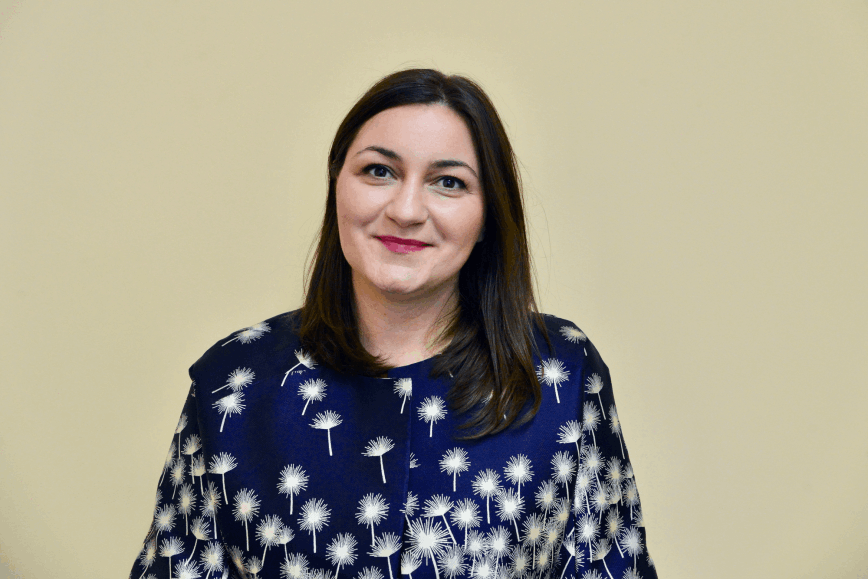
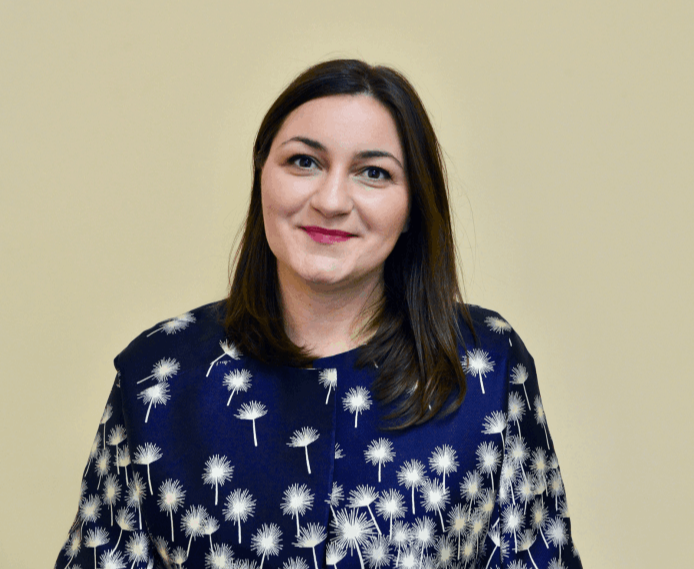
create github pages

Changed region(s): [[0.0605, 0.0896, 0.8473, 1.0], [0.0, 0.9561, 0.0303, 1.0]]

diff --git a/page5.html b/page5.html
@@ -64,7 +64,7 @@
     </nav>
 </section>
 
-<section class="engine"><a href="https://mobirise.info/p">website templates free download</a></section><section class="cid-rlumUfrowX mbr-parallax-background" id="header2-1c">
+<section class="engine"><a href="https://mobirise.info/n">simple web templates</a></section><section class="cid-rlumUfrowX mbr-parallax-background" id="header2-1c">
 
     
 
@@ -89,7 +89,7 @@
     
 
     <div>
-        <div><!-- Filter --><!-- Gallery --><div class="mbr-gallery-row"><div class="mbr-gallery-layout-default"><div><div><div class="mbr-gallery-item mbr-gallery-item--p0" data-video-url="false" data-tags="Awesome"><div href="#lb-gallery3-1h" data-slide-to="0" data-toggle="modal"><img src="assets/images/background10.jpg" alt="" title=""><span class="icon-focus"></span></div></div><div class="mbr-gallery-item mbr-gallery-item--p0" data-video-url="false" data-tags="Responsive"><div href="#lb-gallery3-1h" data-slide-to="1" data-toggle="modal"><img src="assets/images/background2.jpg" alt="" title=""><span class="icon-focus"></span></div></div><div class="mbr-gallery-item mbr-gallery-item--p0" data-video-url="false" data-tags="Creative"><div href="#lb-gallery3-1h" data-slide-to="2" data-toggle="modal"><img src="assets/images/background3.jpg" alt="" title=""><span class="icon-focus"></span></div></div><div class="mbr-gallery-item mbr-gallery-item--p0" data-video-url="false" data-tags="Animated"><div href="#lb-gallery3-1h" data-slide-to="3" data-toggle="modal"><img src="assets/images/background4.jpg" alt="" title=""><span class="icon-focus"></span></div></div><div class="mbr-gallery-item mbr-gallery-item--p0" data-video-url="false" data-tags="Awesome"><div href="#lb-gallery3-1h" data-slide-to="4" data-toggle="modal"><img src="assets/images/background5.jpg" alt="" title=""><span class="icon-focus"></span></div></div><div class="mbr-gallery-item mbr-gallery-item--p0" data-video-url="false" data-tags="Awesome"><div href="#lb-gallery3-1h" data-slide-to="5" data-toggle="modal"><img src="assets/images/background6.jpg" alt="" title=""><span class="icon-focus"></span></div></div><div class="mbr-gallery-item mbr-gallery-item--p0" data-video-url="false" data-tags="Responsive"><div href="#lb-gallery3-1h" data-slide-to="6" data-toggle="modal"><img src="assets/images/background7.jpg" alt="" title=""><span class="icon-focus"></span></div></div><div class="mbr-gallery-item mbr-gallery-item--p0" data-video-url="false" data-tags="Animated"><div href="#lb-gallery3-1h" data-slide-to="7" data-toggle="modal"><img src="assets/images/background8.jpg" alt="" title=""><span class="icon-focus"></span></div></div></div></div><div class="clearfix"></div></div></div><!-- Lightbox --><div data-app-prevent-settings="" class="mbr-slider modal fade carousel slide" tabindex="-1" data-keyboard="true" data-interval="false" id="lb-gallery3-1h"><div class="modal-dialog"><div class="modal-content"><div class="modal-body"><div class="carousel-inner"><div class="carousel-item active"><img src="assets/images/background10.jpg" alt="" title=""></div><div class="carousel-item"><img src="assets/images/background2.jpg" alt="" title=""></div><div class="carousel-item"><img src="assets/images/background3.jpg" alt="" title=""></div><div class="carousel-item"><img src="assets/images/background4.jpg" alt="" title=""></div><div class="carousel-item"><img src="assets/images/background5.jpg" alt="" title=""></div><div class="carousel-item"><img src="assets/images/background6.jpg" alt="" title=""></div><div class="carousel-item"><img src="assets/images/background7.jpg" alt="" title=""></div><div class="carousel-item"><img src="assets/images/background8.jpg" alt="" title=""></div></div><a class="carousel-control carousel-control-prev" role="button" data-slide="prev" href="#lb-gallery3-1h"><span class="mbri-left mbr-iconfont" aria-hidden="true"></span><span class="sr-only">Previous</span></a><a class="carousel-control carousel-control-next" role="button" data-slide="next" href="#lb-gallery3-1h"><span class="mbri-right mbr-iconfont" aria-hidden="true"></span><span class="sr-only">Next</span></a><a class="close" href="#" role="button" data-dismiss="modal"><span class="sr-only">Close</span></a></div></div></div></div></div>
+        <div><!-- Filter --><!-- Gallery --><div class="mbr-gallery-row"><div class="mbr-gallery-layout-default"><div><div><div class="mbr-gallery-item mbr-gallery-item--p0" data-video-url="false" data-tags="Awesome"><div href="#lb-gallery3-1h" data-slide-to="0" data-toggle="modal"><img src="assets/images/background12.jpg" alt="" title=""><span class="icon-focus"></span></div></div><div class="mbr-gallery-item mbr-gallery-item--p0" data-video-url="false" data-tags="Responsive"><div href="#lb-gallery3-1h" data-slide-to="1" data-toggle="modal"><img src="assets/images/background2.jpg" alt="" title=""><span class="icon-focus"></span></div></div><div class="mbr-gallery-item mbr-gallery-item--p0" data-video-url="false" data-tags="Creative"><div href="#lb-gallery3-1h" data-slide-to="2" data-toggle="modal"><img src="assets/images/background3.jpg" alt="" title=""><span class="icon-focus"></span></div></div><div class="mbr-gallery-item mbr-gallery-item--p0" data-video-url="false" data-tags="Animated"><div href="#lb-gallery3-1h" data-slide-to="3" data-toggle="modal"><img src="assets/images/background4.jpg" alt="" title=""><span class="icon-focus"></span></div></div><div class="mbr-gallery-item mbr-gallery-item--p0" data-video-url="false" data-tags="Awesome"><div href="#lb-gallery3-1h" data-slide-to="4" data-toggle="modal"><img src="assets/images/background5.jpg" alt="" title=""><span class="icon-focus"></span></div></div><div class="mbr-gallery-item mbr-gallery-item--p0" data-video-url="false" data-tags="Awesome"><div href="#lb-gallery3-1h" data-slide-to="5" data-toggle="modal"><img src="assets/images/background6.jpg" alt="" title=""><span class="icon-focus"></span></div></div><div class="mbr-gallery-item mbr-gallery-item--p0" data-video-url="false" data-tags="Responsive"><div href="#lb-gallery3-1h" data-slide-to="6" data-toggle="modal"><img src="assets/images/background7.jpg" alt="" title=""><span class="icon-focus"></span></div></div><div class="mbr-gallery-item mbr-gallery-item--p0" data-video-url="false" data-tags="Animated"><div href="#lb-gallery3-1h" data-slide-to="7" data-toggle="modal"><img src="assets/images/background8.jpg" alt="" title=""><span class="icon-focus"></span></div></div></div></div><div class="clearfix"></div></div></div><!-- Lightbox --><div data-app-prevent-settings="" class="mbr-slider modal fade carousel slide" tabindex="-1" data-keyboard="true" data-interval="false" id="lb-gallery3-1h"><div class="modal-dialog"><div class="modal-content"><div class="modal-body"><div class="carousel-inner"><div class="carousel-item active"><img src="assets/images/background12.jpg" alt="" title=""></div><div class="carousel-item"><img src="assets/images/background2.jpg" alt="" title=""></div><div class="carousel-item"><img src="assets/images/background3.jpg" alt="" title=""></div><div class="carousel-item"><img src="assets/images/background4.jpg" alt="" title=""></div><div class="carousel-item"><img src="assets/images/background5.jpg" alt="" title=""></div><div class="carousel-item"><img src="assets/images/background6.jpg" alt="" title=""></div><div class="carousel-item"><img src="assets/images/background7.jpg" alt="" title=""></div><div class="carousel-item"><img src="assets/images/background8.jpg" alt="" title=""></div></div><a class="carousel-control carousel-control-prev" role="button" data-slide="prev" href="#lb-gallery3-1h"><span class="mbri-left mbr-iconfont" aria-hidden="true"></span><span class="sr-only">Previous</span></a><a class="carousel-control carousel-control-next" role="button" data-slide="next" href="#lb-gallery3-1h"><span class="mbri-right mbr-iconfont" aria-hidden="true"></span><span class="sr-only">Next</span></a><a class="close" href="#" role="button" data-dismiss="modal"><span class="sr-only">Close</span></a></div></div></div></div></div>
     </div>
 
 </section>
@@ -99,7 +99,7 @@
     
 
     <div>
-        <div><!-- Filter --><!-- Gallery --><div class="mbr-gallery-row"><div class="mbr-gallery-layout-default"><div><div><div class="mbr-gallery-item mbr-gallery-item--p0" data-video-url="false" data-tags="Awesome"><div href="#lb-gallery3-1i" data-slide-to="0" data-toggle="modal"><img src="assets/images/background10.jpg" alt="" title=""><span class="icon-focus"></span></div></div><div class="mbr-gallery-item mbr-gallery-item--p0" data-video-url="false" data-tags="Responsive"><div href="#lb-gallery3-1i" data-slide-to="1" data-toggle="modal"><img src="assets/images/background2.jpg" alt="" title=""><span class="icon-focus"></span></div></div><div class="mbr-gallery-item mbr-gallery-item--p0" data-video-url="false" data-tags="Creative"><div href="#lb-gallery3-1i" data-slide-to="2" data-toggle="modal"><img src="assets/images/background3.jpg" alt="" title=""><span class="icon-focus"></span></div></div><div class="mbr-gallery-item mbr-gallery-item--p0" data-video-url="false" data-tags="Animated"><div href="#lb-gallery3-1i" data-slide-to="3" data-toggle="modal"><img src="assets/images/background4.jpg" alt="" title=""><span class="icon-focus"></span></div></div><div class="mbr-gallery-item mbr-gallery-item--p0" data-video-url="false" data-tags="Awesome"><div href="#lb-gallery3-1i" data-slide-to="4" data-toggle="modal"><img src="assets/images/background5.jpg" alt="" title=""><span class="icon-focus"></span></div></div><div class="mbr-gallery-item mbr-gallery-item--p0" data-video-url="false" data-tags="Awesome"><div href="#lb-gallery3-1i" data-slide-to="5" data-toggle="modal"><img src="assets/images/background6.jpg" alt="" title=""><span class="icon-focus"></span></div></div><div class="mbr-gallery-item mbr-gallery-item--p0" data-video-url="false" data-tags="Responsive"><div href="#lb-gallery3-1i" data-slide-to="6" data-toggle="modal"><img src="assets/images/background7.jpg" alt="" title=""><span class="icon-focus"></span></div></div><div class="mbr-gallery-item mbr-gallery-item--p0" data-video-url="false" data-tags="Animated"><div href="#lb-gallery3-1i" data-slide-to="7" data-toggle="modal"><img src="assets/images/background8.jpg" alt="" title=""><span class="icon-focus"></span></div></div></div></div><div class="clearfix"></div></div></div><!-- Lightbox --><div data-app-prevent-settings="" class="mbr-slider modal fade carousel slide" tabindex="-1" data-keyboard="true" data-interval="false" id="lb-gallery3-1i"><div class="modal-dialog"><div class="modal-content"><div class="modal-body"><div class="carousel-inner"><div class="carousel-item active"><img src="assets/images/background10.jpg" alt="" title=""></div><div class="carousel-item"><img src="assets/images/background2.jpg" alt="" title=""></div><div class="carousel-item"><img src="assets/images/background3.jpg" alt="" title=""></div><div class="carousel-item"><img src="assets/images/background4.jpg" alt="" title=""></div><div class="carousel-item"><img src="assets/images/background5.jpg" alt="" title=""></div><div class="carousel-item"><img src="assets/images/background6.jpg" alt="" title=""></div><div class="carousel-item"><img src="assets/images/background7.jpg" alt="" title=""></div><div class="carousel-item"><img src="assets/images/background8.jpg" alt="" title=""></div></div><a class="carousel-control carousel-control-prev" role="button" data-slide="prev" href="#lb-gallery3-1i"><span class="mbri-left mbr-iconfont" aria-hidden="true"></span><span class="sr-only">Previous</span></a><a class="carousel-control carousel-control-next" role="button" data-slide="next" href="#lb-gallery3-1i"><span class="mbri-right mbr-iconfont" aria-hidden="true"></span><span class="sr-only">Next</span></a><a class="close" href="#" role="button" data-dismiss="modal"><span class="sr-only">Close</span></a></div></div></div></div></div>
+        <div><!-- Filter --><!-- Gallery --><div class="mbr-gallery-row"><div class="mbr-gallery-layout-default"><div><div><div class="mbr-gallery-item mbr-gallery-item--p0" data-video-url="false" data-tags="Awesome"><div href="#lb-gallery3-1i" data-slide-to="0" data-toggle="modal"><img src="assets/images/background12.jpg" alt="" title=""><span class="icon-focus"></span></div></div><div class="mbr-gallery-item mbr-gallery-item--p0" data-video-url="false" data-tags="Responsive"><div href="#lb-gallery3-1i" data-slide-to="1" data-toggle="modal"><img src="assets/images/background2.jpg" alt="" title=""><span class="icon-focus"></span></div></div><div class="mbr-gallery-item mbr-gallery-item--p0" data-video-url="false" data-tags="Creative"><div href="#lb-gallery3-1i" data-slide-to="2" data-toggle="modal"><img src="assets/images/background3.jpg" alt="" title=""><span class="icon-focus"></span></div></div><div class="mbr-gallery-item mbr-gallery-item--p0" data-video-url="false" data-tags="Animated"><div href="#lb-gallery3-1i" data-slide-to="3" data-toggle="modal"><img src="assets/images/background4.jpg" alt="" title=""><span class="icon-focus"></span></div></div><div class="mbr-gallery-item mbr-gallery-item--p0" data-video-url="false" data-tags="Awesome"><div href="#lb-gallery3-1i" data-slide-to="4" data-toggle="modal"><img src="assets/images/background5.jpg" alt="" title=""><span class="icon-focus"></span></div></div><div class="mbr-gallery-item mbr-gallery-item--p0" data-video-url="false" data-tags="Awesome"><div href="#lb-gallery3-1i" data-slide-to="5" data-toggle="modal"><img src="assets/images/background6.jpg" alt="" title=""><span class="icon-focus"></span></div></div><div class="mbr-gallery-item mbr-gallery-item--p0" data-video-url="false" data-tags="Responsive"><div href="#lb-gallery3-1i" data-slide-to="6" data-toggle="modal"><img src="assets/images/background7.jpg" alt="" title=""><span class="icon-focus"></span></div></div><div class="mbr-gallery-item mbr-gallery-item--p0" data-video-url="false" data-tags="Animated"><div href="#lb-gallery3-1i" data-slide-to="7" data-toggle="modal"><img src="assets/images/background8.jpg" alt="" title=""><span class="icon-focus"></span></div></div></div></div><div class="clearfix"></div></div></div><!-- Lightbox --><div data-app-prevent-settings="" class="mbr-slider modal fade carousel slide" tabindex="-1" data-keyboard="true" data-interval="false" id="lb-gallery3-1i"><div class="modal-dialog"><div class="modal-content"><div class="modal-body"><div class="carousel-inner"><div class="carousel-item active"><img src="assets/images/background12.jpg" alt="" title=""></div><div class="carousel-item"><img src="assets/images/background2.jpg" alt="" title=""></div><div class="carousel-item"><img src="assets/images/background3.jpg" alt="" title=""></div><div class="carousel-item"><img src="assets/images/background4.jpg" alt="" title=""></div><div class="carousel-item"><img src="assets/images/background5.jpg" alt="" title=""></div><div class="carousel-item"><img src="assets/images/background6.jpg" alt="" title=""></div><div class="carousel-item"><img src="assets/images/background7.jpg" alt="" title=""></div><div class="carousel-item"><img src="assets/images/background8.jpg" alt="" title=""></div></div><a class="carousel-control carousel-control-prev" role="button" data-slide="prev" href="#lb-gallery3-1i"><span class="mbri-left mbr-iconfont" aria-hidden="true"></span><span class="sr-only">Previous</span></a><a class="carousel-control carousel-control-next" role="button" data-slide="next" href="#lb-gallery3-1i"><span class="mbri-right mbr-iconfont" aria-hidden="true"></span><span class="sr-only">Next</span></a><a class="close" href="#" role="button" data-dismiss="modal"><span class="sr-only">Close</span></a></div></div></div></div></div>
     </div>
 
 </section>

diff --git a/page1.html b/page1.html
@@ -63,7 +63,7 @@
     </nav>
 </section>
 
-<section class="engine"><a href="https://mobirise.info/x">css templates</a></section><section class="cid-rlifooNnIj mbr-parallax-background" id="header2-h">
+<section class="engine"><a href="https://mobirise.info">Mobirise</a></section><section class="cid-rlifooNnIj mbr-parallax-background" id="header2-h">
 
     
 
@@ -92,11 +92,10 @@
     <div class="container">
         <div class="media-container-row">
             <div class="mbr-figure pr-lg-5" style="width: 75%;">
-              <img src="assets/images/csap-va-868x579.png" alt="" title="">
+              <img src="assets/images/csap-va2-868x579.png" alt="" title="">
             </div>
             <div class="media-content px-3 align-self-center mbr-white py-2">
-                    <p class="mbr-text testimonial-text mbr-fonts-style display-7"><strong><br></strong><br><strong>Csapó Éva </strong><br>egészségfejlesztő, babamasszázs oktató<br><strong><br></strong><br>Változások az életemben mindig új kihívásokat állítottak elém, amelyek megtanítottak arra, hogy szükség van az állandó megújulásra, tanulásra, és a változó igényeknek meg kell tudni felelni. 
-<br>30 éven át védőnőként dolgoztam, és éltem az ország különböző részein, jelenleg egészségfejlesztőként végzem a napi munkám, mellette babamasszázst, jógát oktatok, és elvégeztem a dúlaképzést amely a szülésre felkészítésben ad egyfajta természetes szemléletet.<br>&nbsp;<br></p>
+                    <p class="mbr-text testimonial-text mbr-fonts-style display-7"><strong>Csapó Éva </strong><br>egészségfejlesztő, babamasszázs oktató<br><br>30 éven át védőnőként dolgoztam, és éltem az ország különböző részein, jelenleg egészségfejlesztőként végzem a napi munkám, mellette babamasszázst, jógát oktatok, és elvégeztem a dúlaképzést amely a szülésre felkészítésben ad egyfajta természetes szemléletet.&nbsp;<br></p>
                     <p class="mbr-author-name pt-4 mb-2 mbr-fonts-style display-7">
                        Részletes szakmai önéletrajzomat <a href="index.html" class="text-success">itt olvashatja el</a>.</p>
                     <p class="mbr-author-desc mbr-fonts-style display-7"></p>
@@ -114,7 +113,7 @@
     <div class="container">
         <div class="media-container-row">
             <div class="mbr-figure pr-lg-5" style="width: 75%;">
-              <img src="assets/images/hero-find-therapist11-868x579.jpg" alt="" title="">
+              <img src="assets/images/harnos-zsuzsana-868x579.png" alt="" title="">
             </div>
             <div class="media-content px-3 align-self-center mbr-white py-2">
                     <p class="mbr-text testimonial-text mbr-fonts-style display-7"><strong>Harnos Zsuzsanna</strong><br>gyógypedagógus, logopédus<br><br><span style="font-style: normal;">Elsődleges célom mindig a jó terápiás kapcsolat kialakítása a páciens személyiségének figyelembevételével és sok humorral. Nagyon szeretek gyermekekkel dolgozni, ugyanakkor a felnőttek jelentkezését is szeretettel várom.
@@ -228,7 +227,7 @@
     <div class="container">
         <div class="media-container-row">
             <div class="mbr-figure pr-lg-5" style="width: 75%;">
-              <img src="assets/images/mbr-868x958.jpg" alt="" title="">
+              <img src="assets/images/somogyi-nra-2-868x579.png" alt="" title="">
             </div>
             <div class="media-content px-3 align-self-center mbr-white py-2">
                     <p class="mbr-text testimonial-text mbr-fonts-style display-7"><strong>Somogyi Nóra<br></strong>gyógypedagógus
@@ -257,8 +256,7 @@
                     <p class="mbr-text testimonial-text mbr-fonts-style display-7"><strong>Dr. Ráki Júlia<br></strong>családorvos szakorvos, család- és párterapeuta jelölt, pszichológiai tanácsadó<br><br><span style="font-style: normal;">Gyakorló háziorvosként is fontosnak tartom a családi kapcsolatok feltérképezését és azt az eltűnni látszó hagyományos szemléletet, amelyben az orvos az egész család segítője.</span><br></p>
                     <p class="mbr-author-name pt-4 mb-2 mbr-fonts-style display-7">
                        Részletes szakmai önéletrajzomat <a href="index.html" class="text-success">itt olvashatja el</a>.</p>
-                    <p class="mbr-author-desc mbr-fonts-style display-7">Elérhetőség:<br>+3630/834-1678
-<br>zs.harnos@gmail.com&nbsp;<br></p>
+                    <p class="mbr-author-desc mbr-fonts-style display-7"></p>
             </div>
         </div>
     </div>
@@ -273,10 +271,10 @@
     <div class="container">
         <div class="media-container-row">
             <div class="mbr-figure pr-lg-5" style="width: 75%;">
-              <img src="assets/images/hero-find-therapist11-868x579.jpg" alt="" title="">
+              <img src="assets/images/tolnai-nra2-868x579.png" alt="" title="">
             </div>
             <div class="media-content px-3 align-self-center mbr-white py-2">
-                    <p class="mbr-text testimonial-text mbr-fonts-style display-7"><strong>Tolnai Nóra</strong><br>sportpszichológus, tanácsadó szakpszichológus jelölt<br><br><span style="font-style: normal;">Ha úgy érzi, élete jelen szakaszában professzionális segítségre, támogatásra van szüksége, nehézséget él át, és egyedül nem megy, bizalommal fordulhat hozzám. A tanácsadási folyamat egy bizalmas együttműködést takar, ahol biztonsággal és ítélkezés nélkül adhat teret az Önt foglalkoztató nehézségeknek, amelyek kiteljesedése útjában állnak. Hiszem, hogy mindenkiben ott van a változtatás lehetősége és képessége, amely a megfelelő támogatással, megértéssel, fókuszálással, új szempontok beemelésével elérhetővé is válik.</span></p>
+                    <p class="mbr-text testimonial-text mbr-fonts-style display-7"><strong>Tolnai Nóra</strong><br>sportpszichológus, tanácsadó szakpszichológus jelölt<br><br><span style="font-style: normal;">Ha úgy érzi, élete jelen szakaszában professzionális segítségre, támogatásra van szüksége, nehézséget él át, és egyedül nem megy, bizalommal fordulhat hozzám. A tanácsadási folyamat egy bizalmas együttműködést takar, ahol biztonsággal és ítélkezés nélkül adhat teret az Önt foglalkoztató nehézségeknek, amelyek kiteljesedése útjában állnak.&nbsp;</span></p>
                     <p class="mbr-author-name pt-4 mb-2 mbr-fonts-style display-7">
                        Részletes szakmai önéletrajzomat <a href="index.html" class="text-success">itt olvashatja el</a>.</p>
                     <p class="mbr-author-desc mbr-fonts-style display-7"></p>
@@ -294,14 +292,13 @@
     <div class="container">
         <div class="media-container-row">
             <div class="mbr-figure pr-lg-5" style="width: 75%;">
-              <img src="assets/images/hero-find-therapist11-868x579.jpg" alt="" title="">
+              <img src="assets/images/nyeste-hajnalka2-868x579.png" alt="" title="">
             </div>
             <div class="media-content px-3 align-self-center mbr-white py-2">
-                    <p class="mbr-text testimonial-text mbr-fonts-style display-7"><strong>Nyeste Hajnalka</strong><br>pszichológus, mediátor<br><br><span style="font-style: normal;">Pszichológus és mediátor képesítésem mellett elvégeztem a Magyar Családterápiás Egyesület család- és párterápiás alapképzését. Legnagyobb tapasztalattal párterápia, válási mediáció és anorexiás gyermekek családterápiája terén rendelkezem.</span><br></p>
+                    <p class="mbr-text testimonial-text mbr-fonts-style display-7"><br><strong>Nyeste Hajnalka</strong><br>pszichológus, mediátor<br><br><span style="font-style: normal;">Pszichológus és mediátor képesítésem mellett elvégeztem a Magyar Családterápiás Egyesület család- és párterápiás alapképzését. Legnagyobb tapasztalattal párterápia, válási mediáció és anorexiás gyermekek családterápiája terén rendelkezem.</span><br></p>
                     <p class="mbr-author-name pt-4 mb-2 mbr-fonts-style display-7">
                        Részletes szakmai önéletrajzomat <a href="index.html" class="text-success">itt olvashatja el</a>.</p>
-                    <p class="mbr-author-desc mbr-fonts-style display-7">Elérhetőség:<br>+3630/834-1678
-<br>zs.harnos@gmail.com&nbsp;<br></p>
+                    <p class="mbr-author-desc mbr-fonts-style display-7"></p>
             </div>
         </div>
     </div>
@@ -316,7 +313,7 @@
     <div class="container">
         <div class="media-container-row">
             <div class="mbr-figure pr-lg-5" style="width: 75%;">
-              <img src="assets/images/mbr-868x958.jpg" alt="" title="">
+              <img src="assets/images/szemes-gnes-2-868x579.png" alt="" title="">
             </div>
             <div class="media-content px-3 align-self-center mbr-white py-2">
                     <p class="mbr-text testimonial-text mbr-fonts-style display-7"><strong>Szemes Ágnes<br></strong>pszichológus, sport szakpszichológus-jelölt<br><br><span style="font-style: normal;">Munkám során a hozzám forduló versenyzők mentális felkészítése a cél, hogy képesek legyenek a nyomást könnyebben venni, jobban tudjanak önmagukra, a csapattársaikra és az edzői utasításokra koncentrálni és közben élvezetes élménnyé váljon az adott sporttevékenység számukra.&nbsp;&nbsp;</span><br></p>
@@ -338,14 +335,13 @@
     <div class="container">
         <div class="media-container-row">
             <div class="mbr-figure pr-lg-5" style="width: 75%;">
-              <img src="assets/images/hero-find-therapist11-868x579.jpg" alt="" title="">
+              <img src="assets/images/vgvri-annamria2-868x579.png" alt="" title="">
             </div>
             <div class="media-content px-3 align-self-center mbr-white py-2">
-                    <p class="mbr-text testimonial-text mbr-fonts-style display-7"><strong>Végvári Annamária</strong><br>pszichológus, klinikai szakpszichológus jelölt<br><br><span style="font-style: normal;">Pszichológus diplomámat a Pázmány Péter Katolikus Egyetemen, fejlődés és klinikai gyermekpszichológia szakirányon szereztem. Szakmai tapasztalatomat óvodapszichológusként és pedagógiai szakszolgálatoknál bővítettem, ahol főként gyermekekkel, szüleikkel és fiatal felnőttekkel dolgoztam együtt. Fontos számomra a szakmai igényesség és a folyamatos személyes fejlődés.</span><br></p>
+                    <p class="mbr-text testimonial-text mbr-fonts-style display-7"><strong>Végvári Annamária<br></strong>pszichológus, klinikai szakpszichológus jelölt<br><br><span style="font-style: normal;">Szakmai tapasztalatomat óvodapszichológusként és pedagógiai szakszolgálatoknál bővítettem, ahol főként gyermekekkel, szüleikkel és fiatal felnőttekkel dolgoztam együtt. Fontos számomra a szakmai igényesség és a folyamatos személyes fejlődés.</span><br></p>
                     <p class="mbr-author-name pt-4 mb-2 mbr-fonts-style display-7">
                        Részletes szakmai önéletrajzomat <a href="index.html" class="text-success">itt olvashatja el</a>.</p>
-                    <p class="mbr-author-desc mbr-fonts-style display-7">Elérhetőség:<br>+3630/834-1678
-<br>zs.harnos@gmail.com&nbsp;<br></p>
+                    <p class="mbr-author-desc mbr-fonts-style display-7"></p>
             </div>
         </div>
     </div>
@@ -360,7 +356,7 @@
     <div class="container">
         <div class="media-container-row">
             <div class="mbr-figure pr-lg-5" style="width: 75%;">
-              <img src="assets/images/hero-find-therapist11-868x579.jpg" alt="" title="">
+              <img src="assets/images/ksz-andrea2-868x580.png" alt="" title="">
             </div>
             <div class="media-content px-3 align-self-center mbr-white py-2">
                     <p class="mbr-text testimonial-text mbr-fonts-style display-7"><strong>Kószó Andrea</strong><br>pszichológus, gyermekterapeuta<br><br><span style="font-style: normal;">Gyermekek esetében a korai felismerés és a szülők segítése mellett a gyermek képességeinek a fejlesztése is fontos része a komplex segítségnek. Eddigi tapasztalataim azt mutatják, hogy a több oldalról érkező segítség az, ami látványos fejlődéshez vezet. A gyermekekkel való munka mellett fontosnak tartom, hogy a családok is tudjanak segítséget kapni.</span><br></p>
@@ -381,14 +377,13 @@
     <div class="container">
         <div class="media-container-row">
             <div class="mbr-figure pr-lg-5" style="width: 75%;">
-              <img src="assets/images/hero-find-therapist11-868x579.jpg" alt="" title="">
+              <img src="assets/images/mihajlov-judit-868x579.png" alt="" title="">
             </div>
             <div class="media-content px-3 align-self-center mbr-white py-2">
-                    <p class="mbr-text testimonial-text mbr-fonts-style display-7"><strong>Mihajlov Judit<br></strong>fejlesztőpedagógus<br><br><span style="font-style: normal;">Célom, hogy az óvodáskor végére az iskola megkezdéséhez szükséges tudás, ismeretek birtokában legyenek azok a gyermekek is, akik menet közben elakadtak, nehézségeik adódtak. Fontosnak tartom, hogy megfelelő önbizalommal kezdjék el a megnövekedett iskolai elvárásokhoz való alkalmazkodást, ezért az iskolaérettség követelményeit figyelembe véve zajlik a fejlesztő foglalkozás.&nbsp;</span><br></p>
+                    <p class="mbr-text testimonial-text mbr-fonts-style display-7"><strong><br></strong><strong>Mihajlov Judit<br></strong>fejlesztőpedagógus<br><br><span style="font-style: normal;">Célom, hogy az óvodáskor végére az iskola megkezdéséhez szükséges tudás, ismeretek birtokában legyenek azok a gyermekek is, akik menet közben elakadtak, nehézségeik adódtak. Fontosnak tartom, hogy megfelelő önbizalommal kezdjék el a megnövekedett iskolai elvárásokhoz való alkalmazkodást, ezért az iskolaérettség követelményeit figyelembe véve zajlik a fejlesztő foglalkozás.&nbsp;</span><br></p>
                     <p class="mbr-author-name pt-4 mb-2 mbr-fonts-style display-7">
                        Részletes szakmai önéletrajzomat <a href="index.html" class="text-success">itt olvashatja el</a>.</p>
-                    <p class="mbr-author-desc mbr-fonts-style display-7">Elérhetőség:<br>+3630/834-1678
-<br>zs.harnos@gmail.com&nbsp;<br></p>
+                    <p class="mbr-author-desc mbr-fonts-style display-7"></p>
             </div>
         </div>
     </div>
@@ -403,7 +398,7 @@
     <div class="container">
         <div class="media-container-row">
             <div class="mbr-figure pr-lg-5" style="width: 75%;">
-              <img src="assets/images/mbr-868x958.jpg" alt="" title="">
+              <img src="assets/images/pusztai-eszter2-868x579.png" alt="" title="">
             </div>
             <div class="media-content px-3 align-self-center mbr-white py-2">
                     <p class="mbr-text testimonial-text mbr-fonts-style display-7">Pusztai Eszter<strong><br></strong>pszichológus, klinikai szakpszichológus jelölt, pár- és családterapeuta jelölt

diff --git a/assets/mobirise/css/mbr-additional.css b/assets/mobirise/css/mbr-additional.css
@@ -2619,8 +2619,8 @@ body {
   color: #635a51;
 }
 .cid-rligTuaxyL {
-  padding-top: 0px;
-  padding-bottom: 0px;
+  padding-top: 15px;
+  padding-bottom: 15px;
   background-color: #17b9a1;
 }
 .cid-rligTuaxyL .testimonial-text {
@@ -2646,8 +2646,8 @@ body {
   }
 }
 .cid-rlIZsBKWzz {
-  padding-top: 0px;
-  padding-bottom: 0px;
+  padding-top: 15px;
+  padding-bottom: 15px;
   background-color: #ffffff;
 }
 .cid-rlIZsBKWzz .testimonial-text {
@@ -2681,8 +2681,8 @@ body {
   color: #465052;
 }
 .cid-rlili8XaT9 {
-  padding-top: 0px;
-  padding-bottom: 0px;
+  padding-top: 15px;
+  padding-bottom: 15px;
   background-color: #b0a177;
 }
 .cid-rlili8XaT9 .testimonial-text {
@@ -2832,8 +2832,8 @@ body {
   }
 }
 .cid-rmNzmZFFap {
-  padding-top: 45px;
-  padding-bottom: 15px;
+  padding-top: 0px;
+  padding-bottom: 0px;
   background-color: #ffffff;
 }
 .cid-rmNzmZFFap .testimonial-text {

diff --git a/page6.html b/page6.html
@@ -63,7 +63,7 @@
     </nav>
 </section>
 
-<section class="engine"><a href="https://mobirise.info/a">online site builder</a></section><section class="cid-rli6zJlElY" id="footer2-3">
+<section class="engine"><a href="https://mobirise.info/m">site design templates</a></section><section class="cid-rli6zJlElY" id="footer2-3">
 
     
 
@@ -80,7 +80,7 @@
                 <p class="mbr-text">&nbsp;</p>
             </div>
             <div class="col-12 col-md-6">
-                <div class="google-map"></div>
+                <div class="google-map"><iframe frameborder="0" style="border:0" src="https://www.google.com/maps/embed/v1/place?key=AIzaSyCx3d07zxHPLvkFBLlAR3Ng8a9wsAsGoJ8&amp;q=place_id:ChIJ5VcpISbcQUcRyumQdFS_O1o" allowfullscreen=""></iframe></div>
             </div>
         </div>
         <div class="footer-lower">

diff --git a/index.html b/index.html
@@ -63,7 +63,7 @@
     </nav>
 </section>
 
-<section class="engine"><a href="https://mobirise.info/w">html5 templates</a></section><section class="carousel slide cid-rlITNabGqc" data-interval="false" id="slider2-1z">
+<section class="engine"><a href="https://mobirise.info/s">bootstrap theme</a></section><section class="carousel slide cid-rlITNabGqc" data-interval="false" id="slider2-1z">
 
     
     <div class="container content-slider">

diff --git a/page16.html b/page16.html
@@ -63,7 +63,7 @@
     </nav>
 </section>
 
-<section class="engine"><a href="https://mobirise.info/g">build your own website for free</a></section><section class="cid-rmNOv5K3Dd mbr-parallax-background" id="header2-3o">
+<section class="engine"><a href="https://mobirise.info/h">how to create your own web page for free</a></section><section class="cid-rmNOv5K3Dd mbr-parallax-background" id="header2-3o">
 
     
 

diff --git a/page3.html b/page3.html
@@ -63,7 +63,7 @@
     </nav>
 </section>
 
-<section class="engine"><a href="https://mobirise.info/h">how to create your own web page for free</a></section><section class="cid-rliqm6GdPJ mbr-parallax-background" id="header2-z">
+<section class="engine"><a href="https://mobirise.info/b">how to create a site</a></section><section class="cid-rliqm6GdPJ mbr-parallax-background" id="header2-z">
 
     
 

diff --git a/page13.html b/page13.html
@@ -63,7 +63,7 @@
     </nav>
 </section>
 
-<section class="engine"><a href="https://mobirise.info/o">free portfolio web templates</a></section><section class="cid-rmNOv5K3Dd mbr-parallax-background" id="header2-3o">
+<section class="engine"><a href="https://mobirise.info/u">bootstrap html templates</a></section><section class="cid-rmNOv5K3Dd mbr-parallax-background" id="header2-3o">
 
     
 

diff --git a/page23.html b/page23.html
@@ -63,7 +63,7 @@
     </nav>
 </section>
 
-<section class="engine"><a href="https://mobirise.info/e">how to make a website for free</a></section><section class="cid-rmNOv5K3Dd mbr-parallax-background" id="header2-3o">
+<section class="engine"><a href="https://mobirise.info/b">create a site for free</a></section><section class="cid-rmNOv5K3Dd mbr-parallax-background" id="header2-3o">
 
     
 

diff --git a/page8.html b/page8.html
@@ -63,7 +63,7 @@
     </nav>
 </section>
 
-<section class="engine"><a href="https://mobirise.info/r">free bootstrap template</a></section><section class="cid-rmNOv5K3Dd mbr-parallax-background" id="header2-3o">
+<section class="engine"><a href="https://mobirise.info/u">bootstrap website templates</a></section><section class="cid-rmNOv5K3Dd mbr-parallax-background" id="header2-3o">
 
     
 

diff --git a/page12.html b/page12.html
@@ -63,7 +63,7 @@
     </nav>
 </section>
 
-<section class="engine"><a href="https://mobirise.info/i">website creation software</a></section><section class="cid-rmNOv5K3Dd mbr-parallax-background" id="header2-3o">
+<section class="engine"><a href="https://mobirise.info/k">develop your own website</a></section><section class="cid-rmNOv5K3Dd mbr-parallax-background" id="header2-3o">
 
     
 

diff --git a/page15.html b/page15.html
@@ -63,7 +63,7 @@
     </nav>
 </section>
 
-<section class="engine"><a href="https://mobirise.info/f">simple web maker</a></section><section class="cid-rmNOv5K3Dd mbr-parallax-background" id="header2-3o">
+<section class="engine"><a href="https://mobirise.info/q">free responsive website templates</a></section><section class="cid-rmNOv5K3Dd mbr-parallax-background" id="header2-3o">
 
     
 
